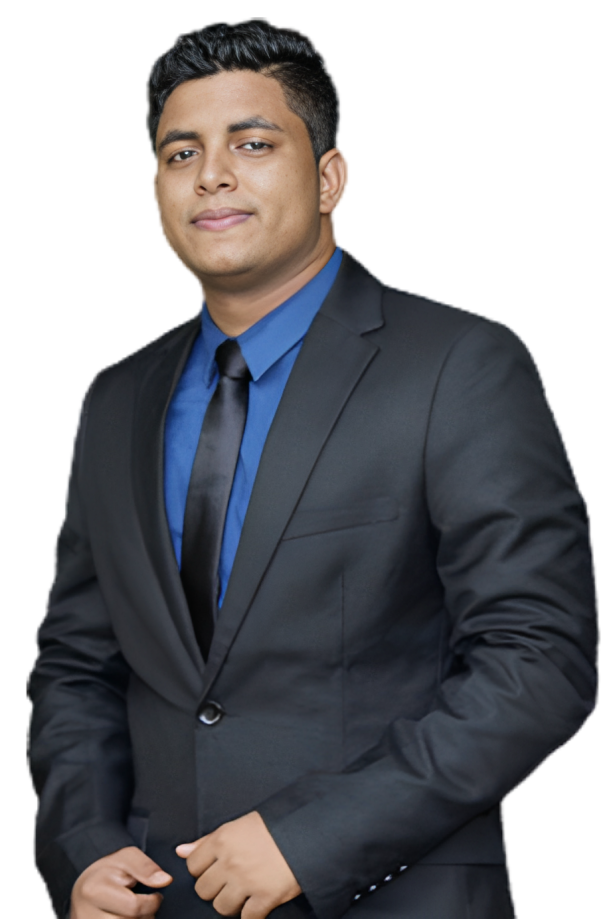
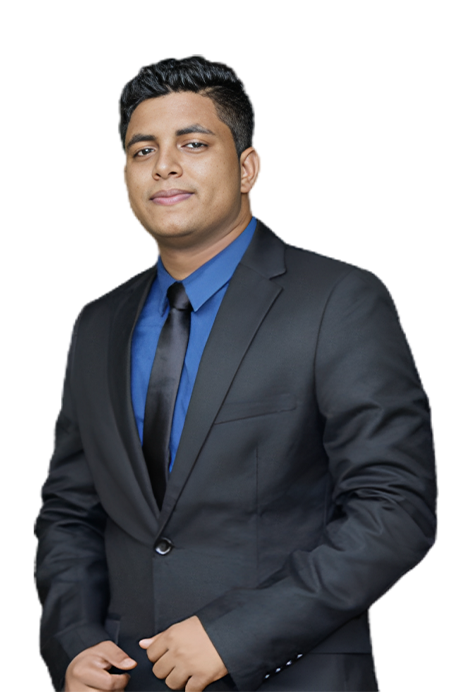
about section

diff --git a/src/components/About.js b/src/components/About.js
@@ -12,16 +12,26 @@ const About = () => {
   return (
     <section ref={ref} id='about' className='section'>
       <div className='container mx-auto'>
-        <div className=''>
-          <div className='img flex-1 bg-about bg-content bg-no-repeat h-[640px] mix-blend-lighten bg-top '></div>
-          <div className='text'>
-            <h2>About Me</h2>
-            <h3>
+        <div className='flex flex-col gap-y-10 lg:flex-row lg:items-center lg:gap-x-20 lg:gap-y-0 h-screen'>
+         { /* img content start  */} 
+         <div className='
+         flex-1
+         bg-about
+         bg-contain 
+         bg-no-repeat  
+         h-[640px]
+         mix-blend-lighten 
+         bg-top'>
+         </div>
+           
+          <div className='flex-1'>
+            { /* text-info start */} 
+            <h2 className='h2 text-cyan-400 '>About Me</h2>
+            <h3 className='mb-4'>
               I'm a Freelance Front-end Developer & Digital marketing with over
               3 years of Experience.
             </h3>
-            <p className='mb-10'>
-              {' '}
+            <p className='mb-6'>
               I'm saifur, a professional freelancer with extensive experience in
               digital marketing who focuses on Google AdWords, Google Analytics
               (GA4), Google Tag Manager, and Web Analytics. I have a
@@ -29,32 +39,41 @@ const About = () => {
               certifications in "Google PPC Ads," "Display Ads," "Shopping,"
               "Leads," "Calls," "Apps," "Measurement," "Video," and "Analytics."{' '}
             </p>
-            <div className='flex gap-x-6 lg:gap-x-10 mb-12x  '>
-              <div className='mt-4'>
-                <div className='text-[40px] font-tertiary text-gradient mb-2 '>
-                  { inView ? <CountUp start={0} end={10} duration={3} /> : null} 
-                </div>
-                <div className='font-primary text-sm tracking-[2px]'>
-                  Years of <br /> experience
-                </div>
-              </div>
-              <div className='mt-4'>
-                <div className='text-[40px] font-tertiary text-gradient mb-2 '>
-                { inView ? <CountUp start={0} end={15} duration={3} /> : null}
-                K+
-                </div>
-                <div className='font-primary text-sm tracking-[2px]'>
-                  projects  <br /> completed
-                </div>
-              </div>
-              <div className='mt-4'>
-                <div className='text-[40px] font-tertiary text-gradient mb-2 '>
-                { inView ? <CountUp start={0} end={25} duration={3} /> : null}
-                </div>
-                <div className='font-primary text-sm tracking-[2px]'>
-                  Years of <br /> experience
-                </div>
-              </div>
+             { /* text-info end */} 
+
+             {/* count end here */}
+             <div className='flex gap-x-6 lg:gap-x-10 mb-12'>
+               <div className=''>
+               <div className='text-[40px] font-tertiary text-gradient mb-2 '>
+                 { inView ? <CountUp start={0} end={3} duration={3} /> : null} 
+               </div>
+               <div className='font-primary text-sm tracking-[2px]'>
+                 Years of <br /> experience
+               </div>
+               </div>
+               <div className=''>
+               <div className='text-[40px] font-tertiary text-gradient mb-2 '>
+               { inView ? <CountUp start={0} end={100} duration={3} /> : null}
+               </div>
+               <div className='font-primary text-sm tracking-[2px]'>
+                 projects  <br /> completed
+               </div>
+               </div>
+               <div className=''>
+               <div className='text-[40px] font-tertiary text-gradient mb-2 '>
+               { inView ? <CountUp start={0} end={80} duration={3} /> : null}
+               </div>
+               <div className='font-primary text-sm tracking-[2px]'>
+                 Satisfied <br /> Clients
+               </div>
+               </div>
+            </div>  {/* count end here */}
+
+            <div className='flex gap-x-8 items-center'>
+              <button className='btn fw2 font-bold btn-sm'>Contact Me</button>
+              <a href ="#" className='text-gradient btn-link'>
+              My Protfolio
+             </a>
             </div>
           </div>
         </div>

diff --git a/src/demo.js b/src/demo.js
@@ -1,0 +1,70 @@
+import React from 'react'
+import CountUp from 'react-countup'
+import { useInView } from 'react-intersection-observer'
+import { motion } from 'framer-motion'
+import { fadeIn } from '../variants'
+
+const About = () => {
+  const [ref, inView] = useInView({
+    threshold: 0.5
+  })
+
+  return (
+    <section ref={ref} id='about' className='section'>
+      <div className='container mx-auto'>
+        <div className='flex flex-col lg:flex-row gap-y-10 lg:items-center lg:gap-x-20 lg:gap-y-0 h-screen'>
+           <div className='img flex-1 bg-about bg-contain bg-no-repeat  mix-blend-lighten bg-top h-[640px]'></div>
+          <div className='text  div-text '>
+            <h2 className='h2 text-cyan-400 '>About Me</h2>
+            <h3 className=''>
+              I'm a Freelance Front-end Developer & Digital marketing with over
+              3 years of Experience.
+            </h3>
+            <p className='mb-10'>
+              I'm saifur, a professional freelancer with extensive experience in
+              digital marketing who focuses on Google AdWords, Google Analytics
+              (GA4), Google Tag Manager, and Web Analytics. I have a
+              certification in "Digital Marketer," which includes specific
+              certifications in "Google PPC Ads," "Display Ads," "Shopping,"
+              "Leads," "Calls," "Apps," "Measurement," "Video," and "Analytics."{' '}
+            </p>
+            <div className='flex gap-x-6 lg:gap-x-10 mb-12'>
+              <div className=''>
+                <div className='text-[40px] font-tertiary text-gradient mb-2 '>
+                  { inView ? <CountUp start={0} end={3} duration={3} /> : null} 
+                </div>
+                <div className='font-primary text-sm tracking-[2px]'>
+                  Years of <br /> experience
+                </div>
+              </div>
+              <div className=''>
+                <div className='text-[40px] font-tertiary text-gradient mb-2 '>
+                { inView ? <CountUp start={0} end={100} duration={3} /> : null}
+                </div>
+                <div className='font-primary text-sm tracking-[2px]'>
+                  projects  <br /> completed
+                </div>
+              </div>
+              <div className=''>
+                <div className='text-[40px] font-tertiary text-gradient mb-2 '>
+                { inView ? <CountUp start={0} end={80} duration={3} /> : null}
+                </div>
+                <div className='font-primary text-sm tracking-[2px]'>
+                  Satisfied <br /> Clients
+                </div>
+              </div>
+            </div>
+            <div className='flex gap-x-8 items-center'>
+            <button className='btn fw2 font-bold btn-sm'>Contact Me</button>
+            <a href ="#" className='text-gradient btn-link'>
+            My Protfolio
+            </a>
+            </div>
+          </div>
+        </div>
+      </div>
+    </section>
+  )
+}
+
+export default About

diff --git a/src/index.css b/src/index.css
@@ -10,7 +10,8 @@
 }
 
 
-.img-clr{
+
+.filter{
   cursor: pointer;
   filter:
    invert(48%) 
@@ -108,3 +109,16 @@ color:  linear-gradient(
   
 
 }
+
+@media only screen and (max-width: 1200px){
+  /*Tablets [601px -> 1200px]*/
+
+}
+@media only screen and (max-width: 600px){
+/*Big smartphones [426px -> 600px]*/
+}
+@media only screen and (max-width: 425px){
+/*Small smartphones [325px -> 425px]*/
+}
+
+

diff --git a/public/index.html b/public/index.html
@@ -22,7 +22,9 @@
   </head>
   <body>
     <noscript>You need to enable JavaScript to run this app.</noscript>
+    <span class="loader"></span>
     <div id="root"></div>
+    
     <!--
       This HTML file is a template.
       If you open it directly in the browser, you will see an empty page.

diff --git a/src/components/Loader.js b/src/components/Loader.js
@@ -1,0 +1,10 @@
+
+import React from 'react';
+
+
+
+const Loader = () => {
+  return <div id='loader' className='section'>Contact</div>;
+};
+
+export default Loader;
